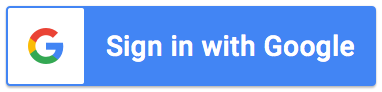
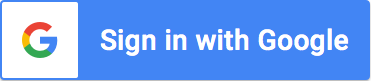
Add links to login with Facebook as well as Google.

Changed region(s): [[0.0, 0.0, 1.0, 1.0], [0.2668, 0.3457, 0.9488, 0.6914], [0.0593, 0.2716, 0.1779, 0.716]]

diff --git a/src/App.vue b/src/App.vue
@@ -57,7 +57,20 @@
             <v-toolbar-title class="hidden-sm-and-down white--text" v-if="loggedIn">Moolah</v-toolbar-title>
             <v-spacer></v-spacer>
             <v-toolbar-items>
-                <v-btn flat ripple v-if="!loggedIn" tag="a" href="/api/googleauth">Sign in</v-btn>
+                <v-menu :nudge-width="100" v-if="!loggedIn" bottom :nudge-bottom="50">
+                    <v-btn flat slot="activator">Sign in with
+                        <v-icon dark>arrow_drop_down</v-icon>
+                    </v-btn>
+                    <v-list>
+                        <v-list-tile ripple href="/api/googleauth">
+                            <v-list-tile-title>Google</v-list-tile-title>
+                        </v-list-tile>
+                        <v-list-tile ripple href="/api/facebookauth">
+                            <v-list-tile-title>Facebook</v-list-tile-title>
+                        </v-list-tile>
+                    </v-list>
+                </v-menu>
+
                 <logout v-if="loggedIn" @logOut="loggedIn = false"></logout>
             </v-toolbar-items>
             <v-toolbar-side-icon @click.native.prevent="toggleRightNav" :disabled="!hasTransaction" v-if="loggedIn"></v-toolbar-side-icon>

diff --git a/src/components/welcome/Welcome.vue b/src/components/welcome/Welcome.vue
@@ -22,8 +22,9 @@
         </feature-panel>
       </v-layout>
 
-      <v-layout row justify-center class="mt-5">
-        <a href="/api/googleauth"><img src="../../assets/auth/signin_google.png" width="191" height="46"></a>
+      <v-layout row justify-center class="mt-5 login-buttons">
+        <a href="/api/googleauth"><img src="../../assets/auth/signin_google.png"></a>
+        <a href="/api/facebookauth"><img src="../../assets/auth/signin_facebook.png"></a>
       </v-layout>
     </v-container>
   </div>
@@ -43,8 +44,17 @@
   }
 </script>
 
-<style>
+<style lang="scss">
   .parallax__image-container img {
     filter: brightness(60%);
+  }
+
+  .login-buttons {
+    a {
+      padding-right: 2em;
+    }
+    img {
+      height: 40px;
+    }
   }
 </style>
